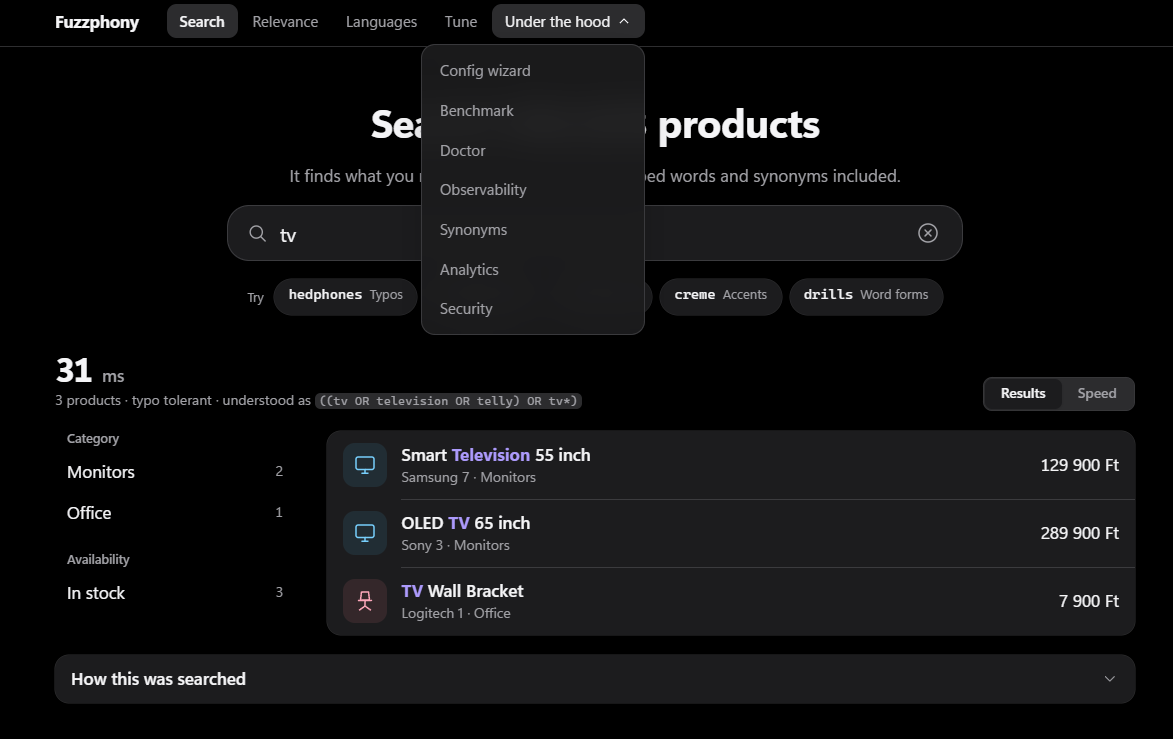
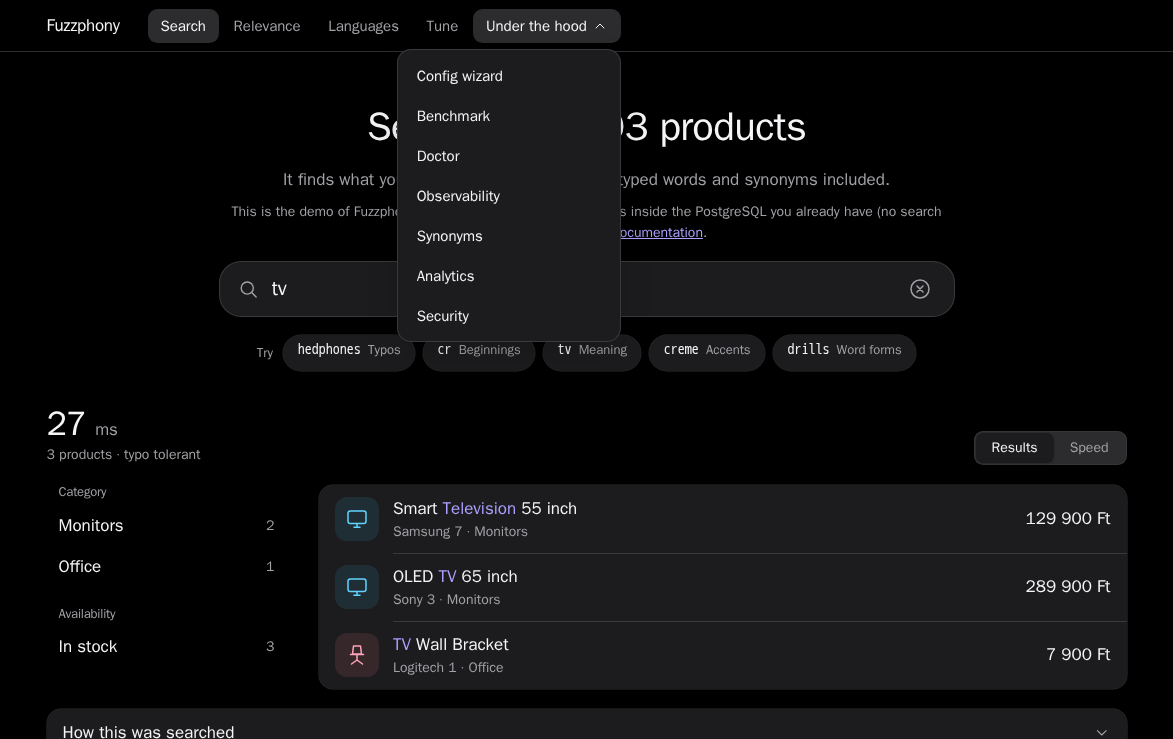
Demo: the highlight stays markup inside the shared row macro (found by the screenshots), link underline on the home page line, a flow for highlights; regenerated screenshots (R3-15, R3-16)

Changed region(s): [[0.0307, 0.0, 0.9821, 1.0], [0.8286, 0.498, 0.9821, 0.5602], [0.0307, 0.747, 0.1228, 0.8403]]

diff --git a/demo/assets/styles/app.css b/demo/assets/styles/app.css
@@ -338,6 +338,7 @@
     .hero h1 { font-size: clamp(1.75rem, 1.2rem + 2.2vw, 2.5rem); text-align: center; }
     .hero .lede { text-align: center; color: var(--label-2); }
     .hero .about { text-align: center; margin-top: -.5rem; }
+    .hero .about a { text-decoration: underline; } /* a link inside a sentence must not rely on its colour alone */
     .hero .segmented { justify-self: center; }
     .field-wrap { position: relative; }
     .examples-row { display: flex; flex-wrap: wrap; justify-content: center; align-items: center; gap: .5rem .5rem; }
